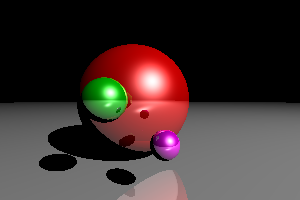
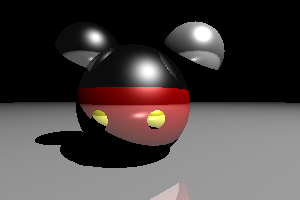
mickey mouse hehe

diff --git a/assignments/raytracer.py b/assignments/raytracer.py
@@ -1,3 +1,5 @@
+# https://omaraflak.medium.com/ray-tracing-from-scratch-in-python-41670e6a96f9
+
 import numpy as np
 import matplotlib.pyplot as plt
 
@@ -46,40 +48,76 @@ ratio = float(width) / height
 screen = (-1, 1 / ratio, 1, -1 / ratio)  # left, top, right, bottom
 
 light = {
-    "position": np.array([5, 5, 5]),
+    "position": np.array([5, 10, 5]),
     "ambient": np.array([1, 1, 1]),
     "diffuse": np.array([1, 1, 1]),
     "specular": np.array([1, 1, 1]),
 }
 
+
 objects = [
+    # black sphere
     {
+        # [x, y, z]
         "center": np.array([-0.2, 0, -1]),
         "radius": 0.7,
+        "ambient": np.array([0.05, 0.05, 0.05]),
+        "diffuse": np.array([0, 0, 0]),
+        "specular": np.array([1, 1, 1]),
+        "shininess": 100,
+        "reflection": 0.5,
+    },
+    # red sphere
+    {
+        "center": np.array([-0.2, -0.05, -1]),
+        "radius": 0.71,
         "ambient": np.array([0.1, 0, 0]),
         "diffuse": np.array([0.7, 0, 0]),
         "specular": np.array([1, 1, 1]),
         "shininess": 100,
         "reflection": 0.5,
     },
+    # left button
     {
-        "center": np.array([0.1, -0.3, 0]),
-        "radius": 0.1,
-        "ambient": np.array([0.1, 0, 0.1]),
-        "diffuse": np.array([0.7, 0, 0.7]),
+        "center": np.array([-0.4, -0.15, -0.5]),
+        "radius": 0.18,
+        "ambient": np.array([0.3, 0.3, 0.1]),
+        "diffuse": np.array([0.8, 0.8, 0.1]),
         "specular": np.array([1, 1, 1]),
         "shininess": 100,
         "reflection": 0.5,
     },
+    # right button
     {
-        "center": np.array([-0.3, 0, 0]),
-        "radius": 0.15,
-        "ambient": np.array([0, 0.1, 0]),
-        "diffuse": np.array([0, 0.6, 0]),
+        "center": np.array([0.0, -0.15, -0.5]),
+        "radius": 0.18,
+        "ambient": np.array([0.3, 0.3, 0.1]),
+        "diffuse": np.array([0.8, 0.8, 0.1]),
         "specular": np.array([1, 1, 1]),
         "shininess": 100,
         "reflection": 0.5,
     },
+    # left ear
+    {
+        "center": np.array([-0.8, 0.6, -1]),
+        "radius": 0.4,
+        "ambient": np.array([0.05, 0.05, 0.05]),
+        "diffuse": np.array([0, 0, 0]),
+        "specular": np.array([1, 1, 1]),
+        "shininess": 100,
+        "reflection": 0.5,
+    },
+    # right ear
+    {
+        "center": np.array([0.55, 0.6, -1]),
+        "radius": 0.4,
+        "ambient": np.array([0.1, 0.1, 0.1]),
+        "diffuse": np.array([0.6, 0.6, 0.6]),
+        "specular": np.array([1, 1, 1]),
+        "shininess": 100,
+        "reflection": 0.5,
+    },
+    # grey floor
     {
         "center": np.array([0, -9000, 0]),
         "radius": 9000 - 0.7,
@@ -92,6 +130,7 @@ objects = [
 ]
 
 image = np.zeros((height, width, 3))
+
 for i, y in enumerate(np.linspace(screen[1], screen[3], height)):
     for j, x in enumerate(np.linspace(screen[0], screen[2], width)):
         # screen is on origin
